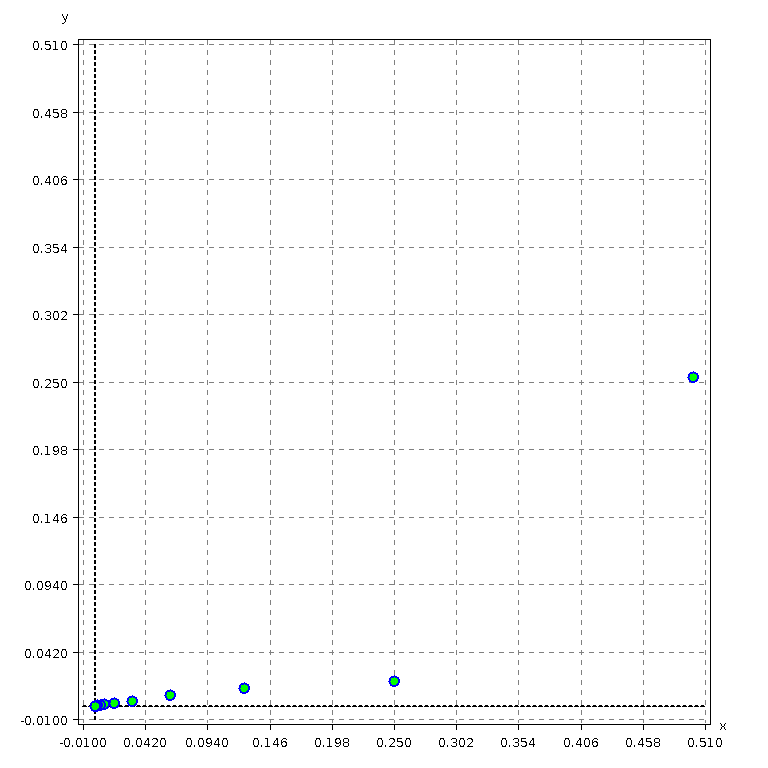
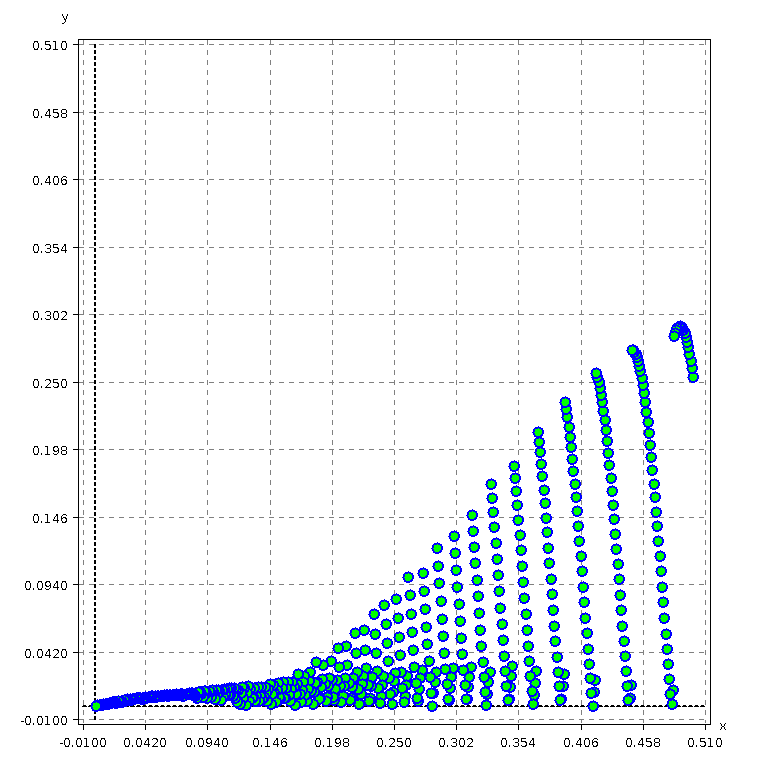
Implement Task51D

Changed region(s): [[0.125, 0.4375, 0.9062, 0.9375], [0.875, 0.4062, 0.9062, 0.5]]

diff --git a/task51/src/main/java/mathe3/Task51ABC.java b/task51/src/main/java/mathe3/Task51ABC.java
@@ -7,17 +7,18 @@ import mathe3.plot.Point;
 
 public class Task51ABC {
 
-    private static final double FROM = 0;
-    private static final double TO = 2*Math.PI;
     public static final EulerMethod EULER_METHOD = new EulerMethod();
     public static final HeunMethod HEUN_METHOD = new HeunMethod();
+
+    private static final double FROM = 0;
+    private static final double TO = 2*Math.PI;
     public static final Point START_CONDITION = new Point(0, 0.5);
 
     public static void main(String[] args) {
         double h = 0.5;
         List<Point> euler = new ArrayList<>();
         List<Point> heun = new ArrayList<>();
-        for (int i = 0; i < 16; i ++ ){
+        for (int i = 0; i < 500; i ++ ){
             double[] doubles = calculateForH(h);
             euler.add(new Point(h, doubles[0]));
             heun.add(new Point(h, doubles[1]));
@@ -39,7 +40,7 @@ public class Task51ABC {
         double actualLast = y(TO);
 //        System.out.printf("Actual y(2pi) = %f%n", actualLast);
 
-        double diff1 = Math.abs(actualLast - lastEuler.y);
+        double diff1 = Math.abs(actualLast - lastEuler.y);// relative or just difference
         System.out.printf("Euler diff: %f%n", diff1);
 
         double diff2 = Math.abs(actualLast - lastHeun.y);

diff --git a/task51/src/main/java/mathe3/Task51D.java b/task51/src/main/java/mathe3/Task51D.java
@@ -1,14 +1,31 @@
 package mathe3;
 
+import java.util.List;
+import mathe3.plot.Plotter;
+import mathe3.plot.Point;
+
 public class Task51D {
 
-    public static void main(String[] args) {
+    private static final double FROM = 0;
+    private static final double TO = 4*Math.PI;
+    public static final Point START_CONDITION = new Point(0, 1/5.);
+    public static final double H = 0.01;
 
+    public static void main(String[] args) {
+        List<Point> approxEuler = new EulerMethod().
+                calculatePoints(Task51D::yDerivative, START_CONDITION, FROM, TO, H);
+        new Plotter(approxEuler, 500000, 0.5)
+                .function(Task51D::y).save(3);
     }
 
 
     // y'(x)
     public static double yDerivative(double x, double y){
         return y - Math.cos(2*x);
+    }
+
+    // actual y(x)
+    public static double y(double x){
+        return 1. / 5 * (Math.cos(2 * x) - 2 * Math.sin(2 * x));
     }
 }

diff --git a/task51/src/main/java/mathe3/EulerMethod.java b/task51/src/main/java/mathe3/EulerMethod.java
@@ -16,7 +16,7 @@ public class EulerMethod {
             double slope = derivativeFunction.applyAsDouble(prevPoint.x, prevPoint.y); // f(xi, yi)
 
             double x = prevPoint.x + h;         // x for i+1
-            double y = prevPoint.y + h * slope; // y for i + 1
+            double y = prevPoint.y + h * slope; // y for i+1
 
             prevPoint = new Point(x, y);
             points.add(prevPoint);

diff --git a/task51/src/main/java/mathe3/plot/Plotter.java b/task51/src/main/java/mathe3/plot/Plotter.java
@@ -112,8 +112,8 @@ public class Plotter {
         plot.series(randomName(),
                 Plot.data().xy(xs, ys),
                 Plot.seriesOpts().markerColor(Color.GREEN)
-                        .marker(Plot.Marker.CIRCLE)
-                        .line(Plot.Line.NONE));
+                        .marker(Plot.Marker.NONE)
+                        .line(Plot.Line.DASHED));
         return this;
     }
 
